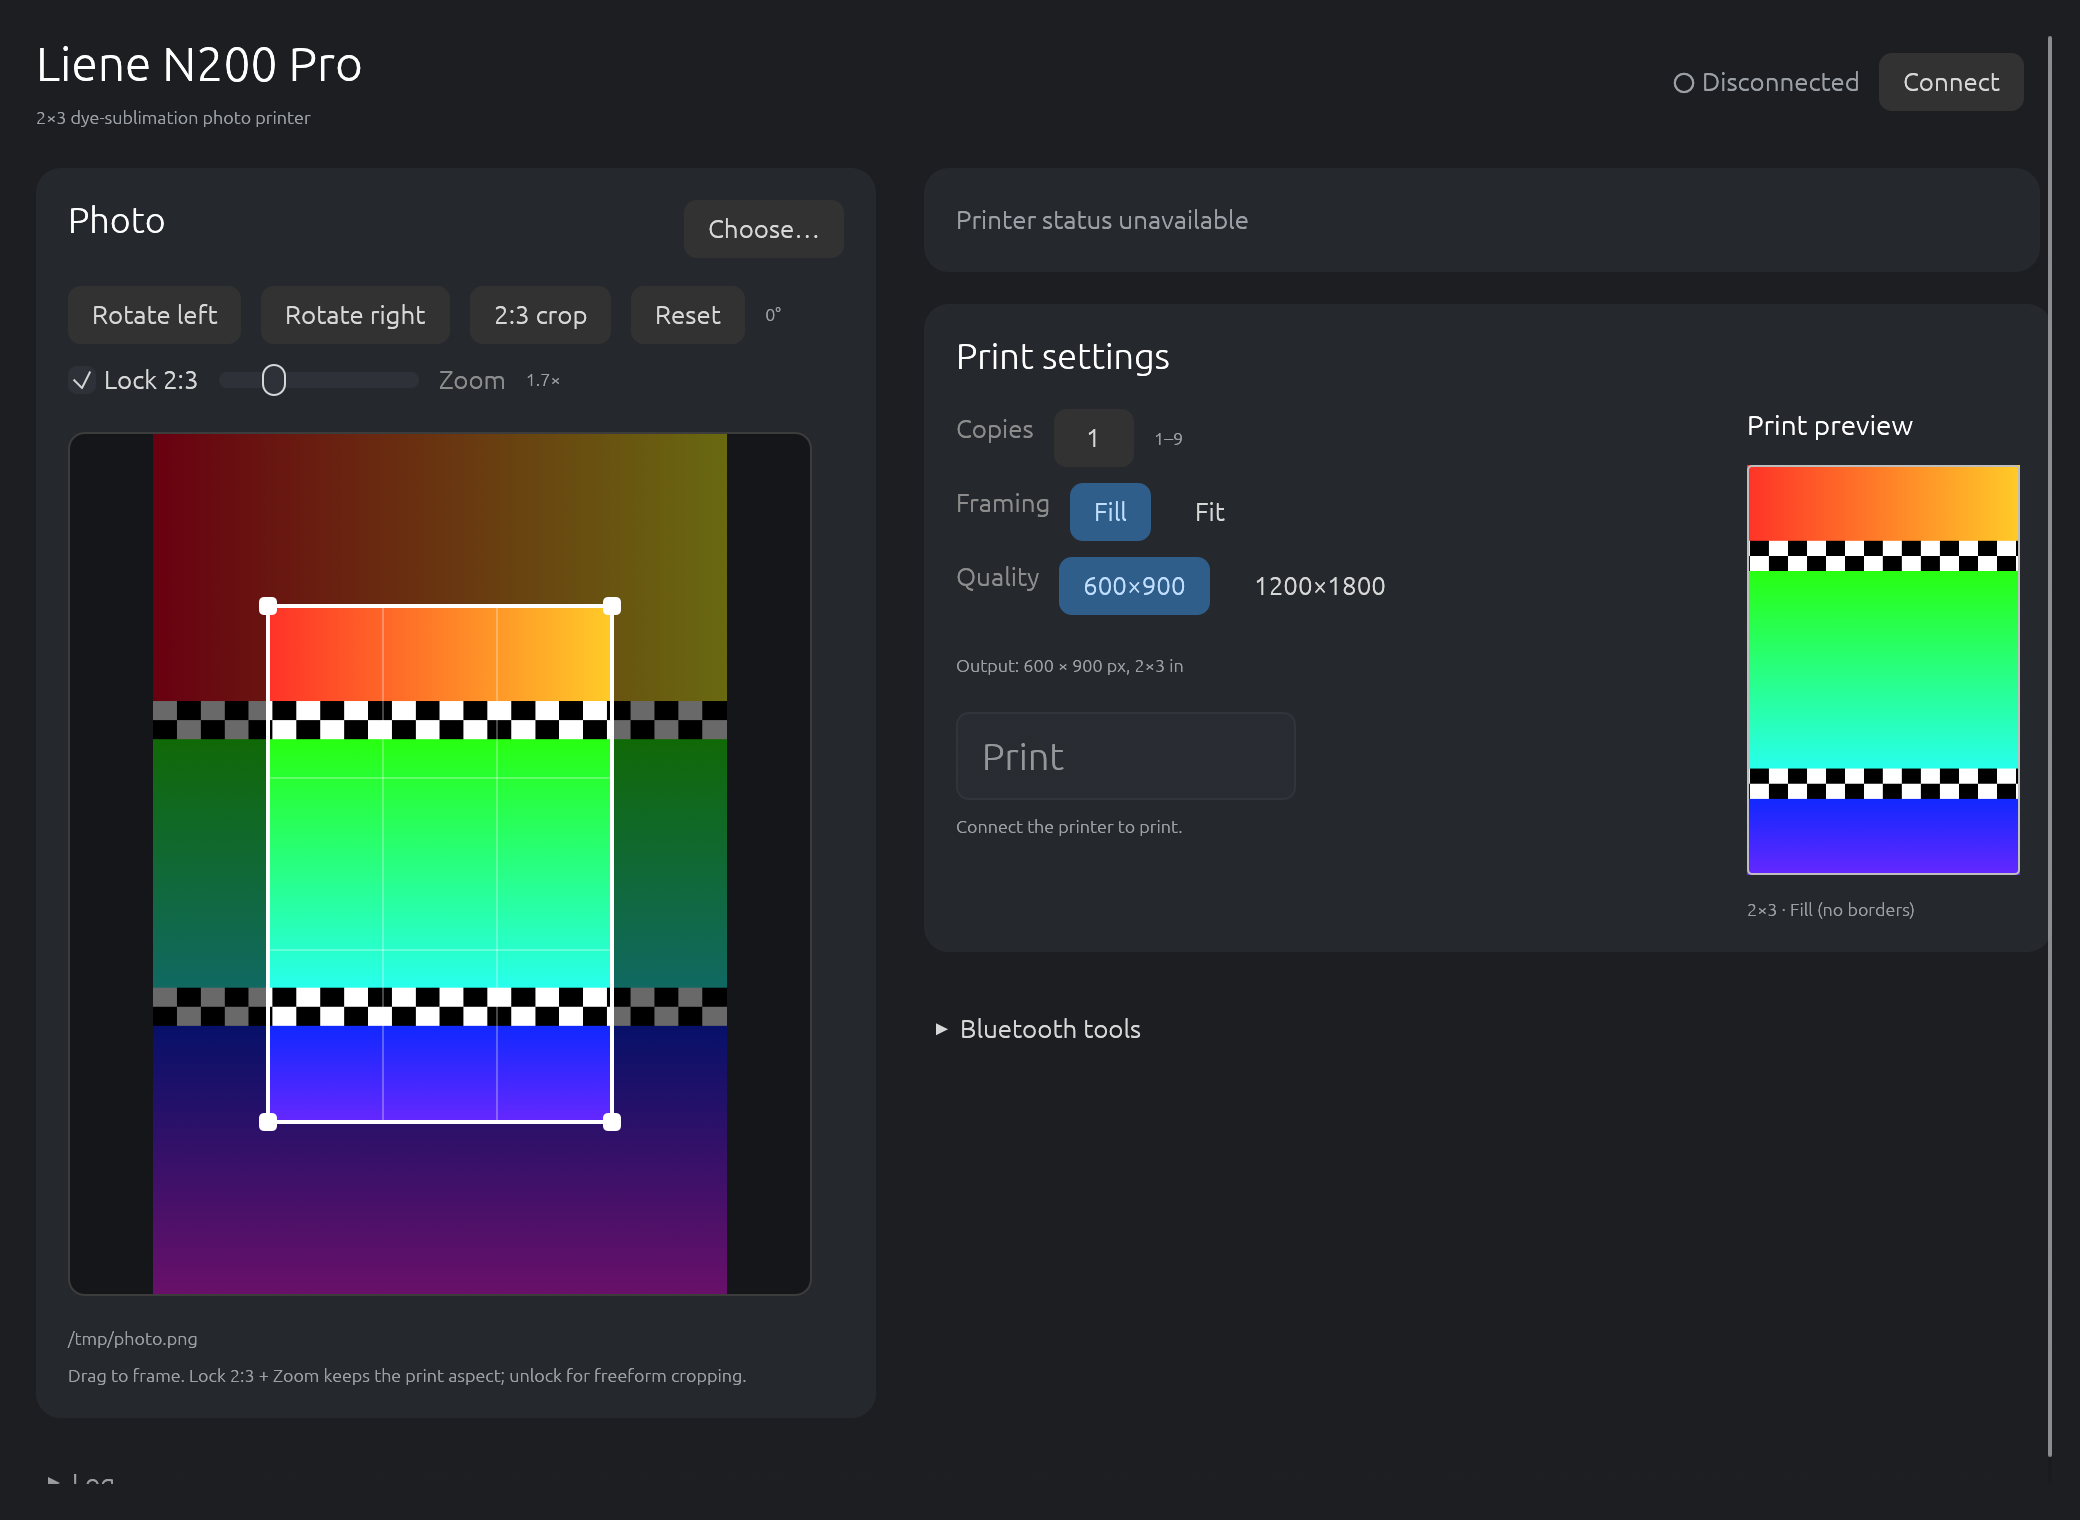
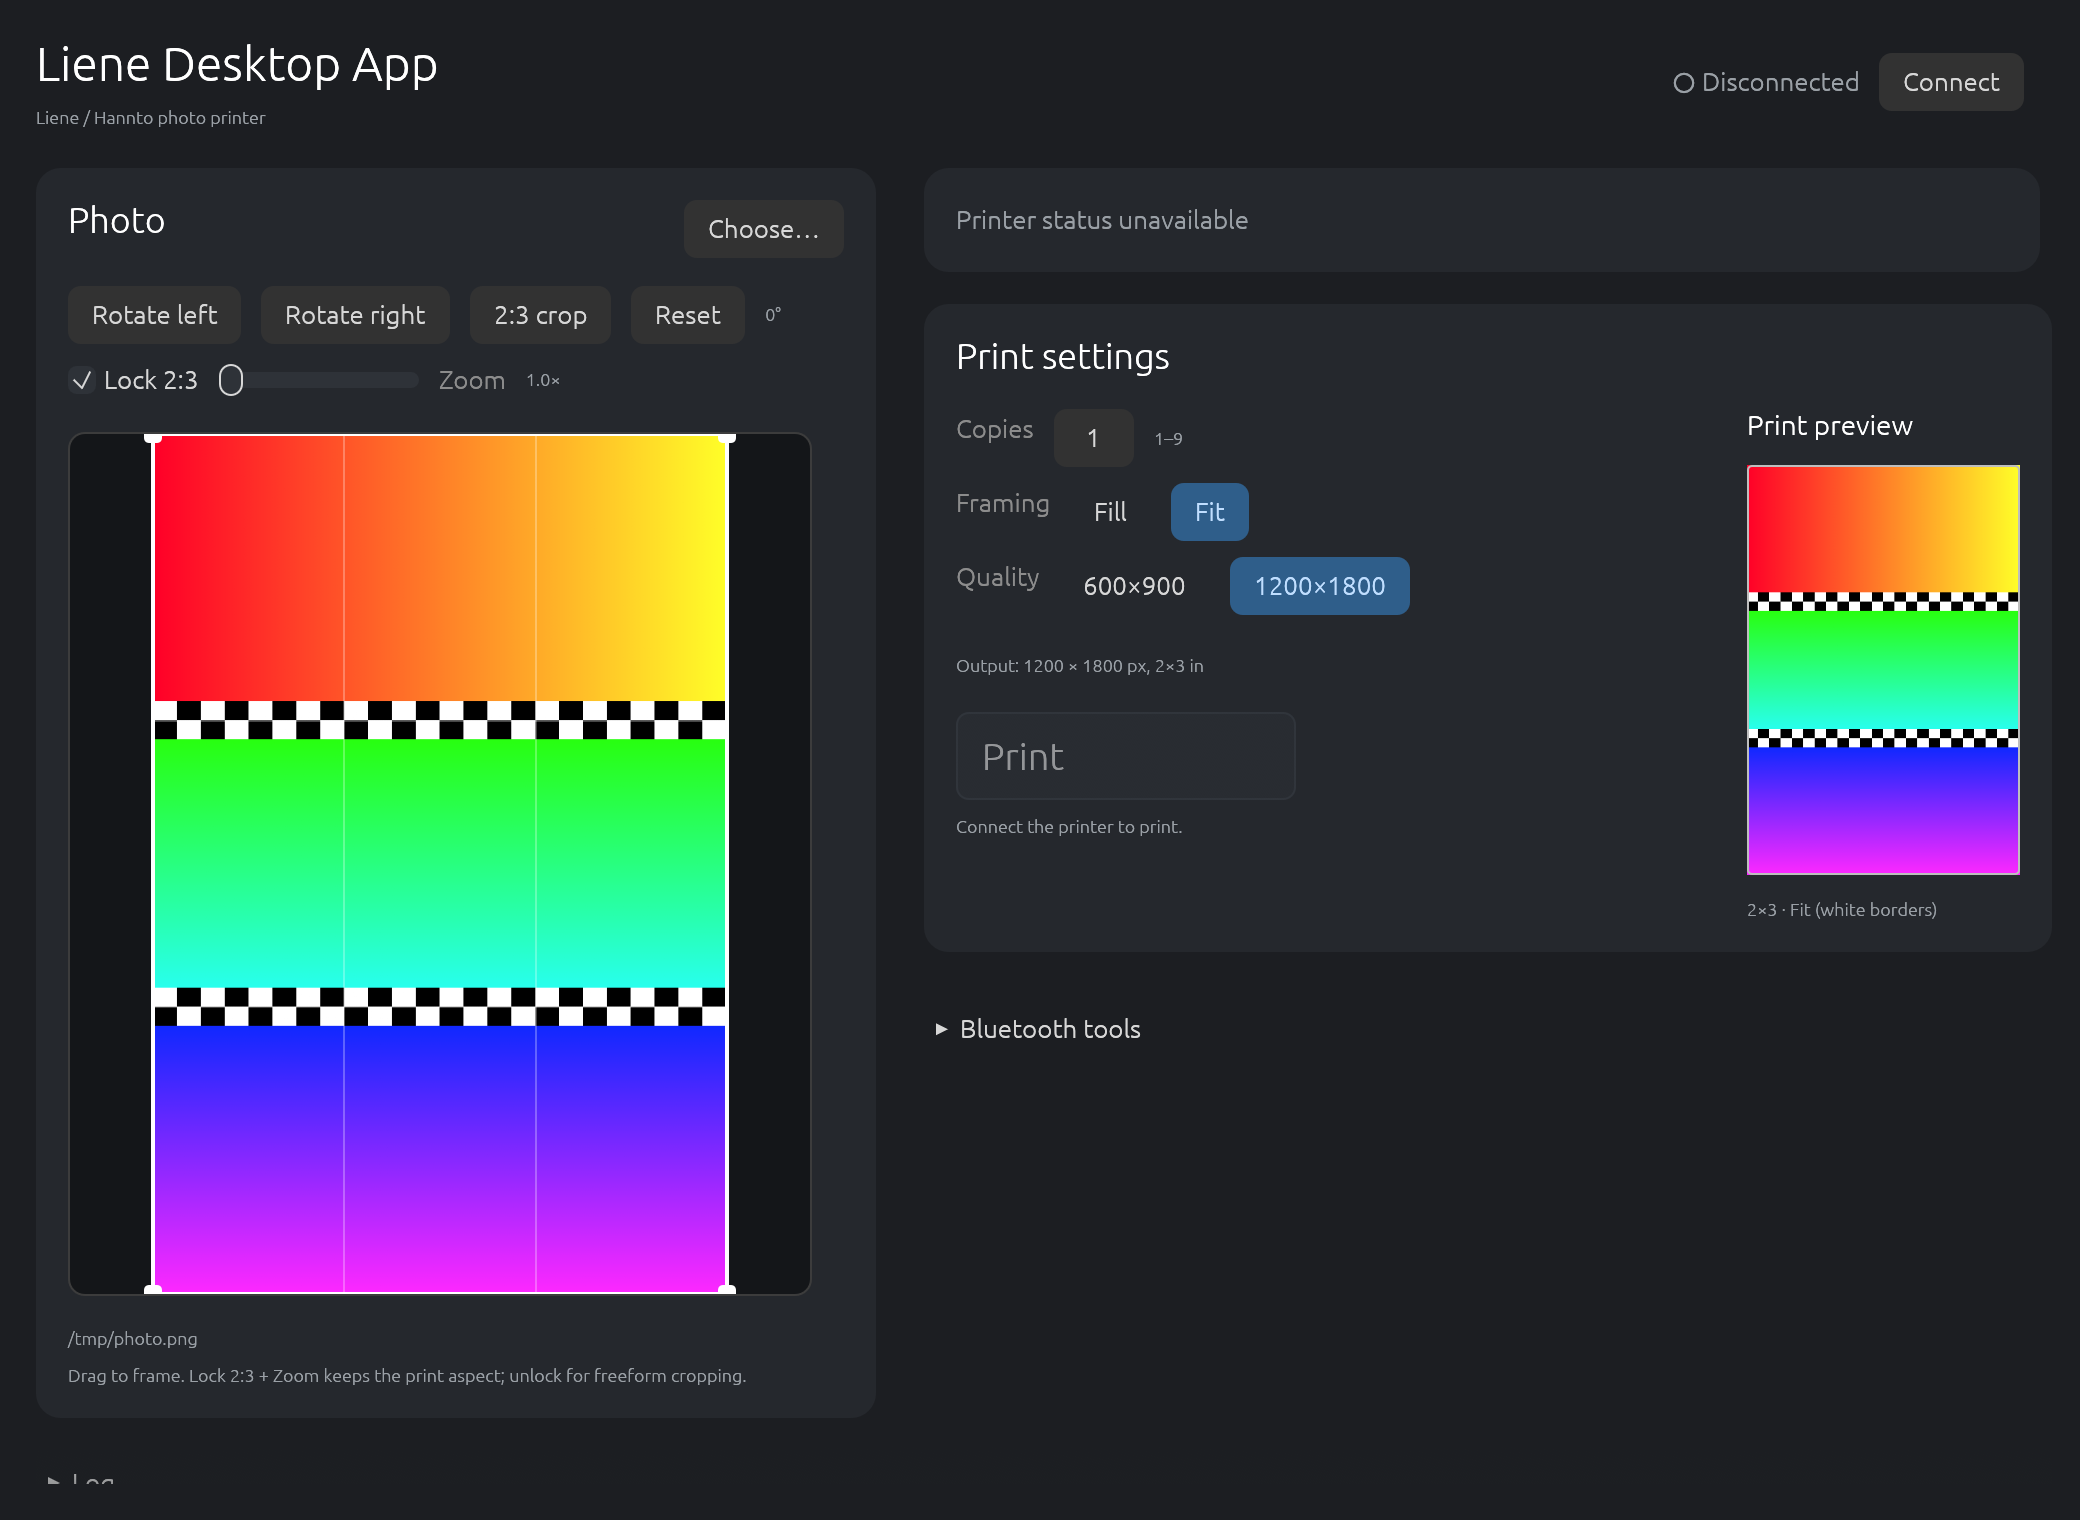
Release v0.3.0: rename to Liene Desktop App, default high-res and Fit
- Rename GUI binary to liene-desktop-app and all bundles/assets to Liene-Desktop-App
- Rename macOS app, helper names, license holder, and docs to Liene Desktop App
- Preselect 1200x1800 quality and Fit (contain) framing in GUI and CLI
- Refresh screenshots and update CI/release workflows for new asset paths

diff --git a/crates/liene-gui/src/main.rs b/crates/liene-gui/src/main.rs
@@ -26,11 +26,11 @@ fn main() -> eframe::Result<()> {
         viewport: egui::ViewportBuilder::default()
             .with_inner_size([1040.0, 760.0])
             .with_min_inner_size([960.0, 600.0])
-            .with_title("Liene N200 Pro"),
+            .with_title("Liene Desktop App"),
         ..Default::default()
     };
     eframe::run_native(
-        "Liene N200 Pro",
+        "Liene Desktop App",
         options,
         Box::new(|cc| Ok(Box::new(LieneApp::new(cc)))),
     )
@@ -52,7 +52,7 @@ struct JobUi {
     print_time_ms: u64,
 }
 
-#[derive(Clone, Copy, PartialEq, Eq)]
+#[derive(Debug, Clone, Copy, PartialEq, Eq)]
 enum Quality {
     Native,
     High,
@@ -159,8 +159,8 @@ impl LieneApp {
             crop_drag: None,
             crop_drag_start: None,
             copies: 1,
-            fit: Fit::Cover,
-            quality: Quality::Native,
+            fit: Fit::Contain,
+            quality: Quality::High,
             job: None,
             upload: None,
             error: startup_error,
@@ -196,7 +196,7 @@ impl LieneApp {
                 Fit::Cover
             };
         }
-        app.push_log("Liene N200 Pro ready.");
+        app.push_log("Liene Desktop App ready.");
         app
     }
 
@@ -371,9 +371,9 @@ impl LieneApp {
     fn top_bar(&mut self, ui: &mut egui::Ui) {
         ui.horizontal(|ui| {
             ui.vertical(|ui| {
-                ui.label(RichText::new("Liene N200 Pro").size(24.0).strong());
+                ui.label(RichText::new("Liene Desktop App").size(24.0).strong());
                 ui.label(
-                    RichText::new("2×3 dye-sublimation photo printer")
+                    RichText::new("Liene / Hannto photo printer")
                         .color(MUTED)
                         .small(),
                 );

diff --git a/crates/liene-cli/src/main.rs b/crates/liene-cli/src/main.rs
@@ -15,7 +15,7 @@ use printer::Printer;
 #[command(
     name = "liene-n200",
     version,
-    about = "Print photos on a Liene Pearl N200 Pro over Bluetooth"
+    about = "Print photos on Liene/Hannto photo printers over Bluetooth"
 )]
 struct Cli {
     /// Device name prefix to look for (case-insensitive).
@@ -70,13 +70,13 @@ enum Command {
         #[arg(short, long, default_value = "prepared.jpg")]
         out: PathBuf,
 
-        #[arg(long, default_value_t = 600)]
+        #[arg(long, default_value_t = 1200)]
         width: u32,
 
-        #[arg(long, default_value_t = 900)]
+        #[arg(long, default_value_t = 1800)]
         height: u32,
 
-        #[arg(long, default_value = "cover")]
+        #[arg(long, default_value = "contain")]
         fit: String,
 
         #[arg(long, default_value_t = 0)]
@@ -100,16 +100,16 @@ enum Command {
         #[arg(short, long, default_value_t = 1)]
         copies: u32,
 
-        /// Canvas width in pixels (default 600 = 2 inch at 300 dpi).
-        #[arg(long, default_value_t = 600)]
+        /// Canvas width in pixels (default 1200; 2x native 300 dpi output).
+        #[arg(long, default_value_t = 1200)]
         width: u32,
 
-        /// Canvas height in pixels (default 900 = 3 inch at 300 dpi).
-        #[arg(long, default_value_t = 900)]
+        /// Canvas height in pixels (default 1800; 2x native 300 dpi output).
+        #[arg(long, default_value_t = 1800)]
         height: u32,
 
-        /// Fit mode: cover (crop to fill) or contain (letterbox).
-        #[arg(long, default_value = "cover")]
+        /// Fit mode: contain (letterbox, default) or cover (crop to fill).
+        #[arg(long, default_value = "contain")]
         fit: String,
 
         /// Delay between 918-byte upload frames, so the printer's RFCOMM

diff --git a/README.md b/README.md
@@ -181,9 +181,9 @@ The app auto-connects to the paired printer and provides:
     rule-of-thirds guides.
   - **2:3 crop** snaps to the largest centered 2:3 frame; **Reset** starts
     over.
-- **Print settings**: copies (1–9), Fill (cover) or Fit (contain). The default
-  canvas is 1200×1800 (2× the native 300 dpi output); 600×900 remains
-  selectable.
+- **Print settings**: copies (1–9), **Fit** (contain, default; white borders)
+  or **Fill** (cover; crops to the print). The default canvas is 1200×1800 (2×
+  the native 300 dpi output); 600×900 remains selectable.
 - **Print preview**: the final 2:3 composition next to the settings. With
   **Fit**, the white borders are shown exactly as they will print.
 - **Printer status**: state, sub-state, battery, alerts, and model/serial/
@@ -211,7 +211,7 @@ liene-n200 ble --connect
 liene-n200 status
 liene-n200 info
 
-# Print a photo (cover-cropped to 1200x1800 by default)
+# Print a photo (fit into 1200x1800 with white borders by default)
 liene-n200 print photo.jpg --copies 1
 
 # Rotate/crop while printing
@@ -221,8 +221,11 @@ liene-n200 print photo.jpg --rotate 90 --crop 0.1,0.2,0.6,0.5
 liene-n200 prepare photo.jpg --out prepared.jpg --rotate 90 \
     --crop 0.1,0.2,0.6,0.5
 
-# Native 600x900 output (optional; 1200x1800 is the default)
-liene-n200 print photo.jpg --width 600 --height 900 --fit contain
+# Native 600x900 output (optional; 1200x1800 and Fit are the defaults)
+liene-n200 print photo.jpg --width 600 --height 900
+
+# Fill the page instead of adding white borders
+liene-n200 print photo.jpg --fit cover
 
 # Don't block until the print finishes
 liene-n200 print photo.jpg --no-wait
@@ -296,8 +299,9 @@ cargo clippy --workspace --all-targets --locked -- -D warnings
 cargo test --workspace --locked
 ```
 
-CI runs these checks on macOS. Hardware tests require a printer; the unit
-tests cover framing, chunking, the edit/zoom model, and the image pipeline.
+CI runs these checks on macOS, Linux, and Windows. Hardware tests require a
+printer; the unit tests cover framing, chunking, the edit/zoom model, and the
+image pipeline.
 
 ## Releasing
 

diff --git a/CHANGELOG.md b/CHANGELOG.md
@@ -1,5 +1,19 @@
 # Changelog
 
+## [0.3.0] - 2026-11-21
+
+### Changed
+
+- Renamed the desktop app to **Liene Desktop App** (binary
+  `liene-desktop-app`; release assets now `Liene-Desktop-App-*`).
+- Default print quality is now 1200×1800 (2× the native 300 dpi output);
+  600×900 remains selectable. CLI `print` and `prepare` also default to
+  1200×1800.
+- Default framing is now **Fit** (contain, white borders) instead of Fill
+  (cover). Fill remains selectable in the app and via `--fit cover`.
+- The macOS bundle, Linux archive, Windows zip, and DMG names follow the new
+  app name.
+
 ## [0.2.0] - 2026-11-21
 
 ### Added

diff --git a/CONTRIBUTING.md b/CONTRIBUTING.md
@@ -1,6 +1,6 @@
 # Contributing
 
-Thanks for helping improve the Liene N200 Pro client.
+Thanks for helping improve the Liene Desktop App client.
 
 ## Good first contributions
 
@@ -26,7 +26,7 @@ are produced by:
 
 ```sh
 ./scripts/bundle-macos.sh
-VERSION=0.2.0 ./scripts/make-dmg.sh
+VERSION=0.3.0 ./scripts/make-dmg.sh
 ```
 
 Hardware testing requires the printer; unit tests must pass without it.
